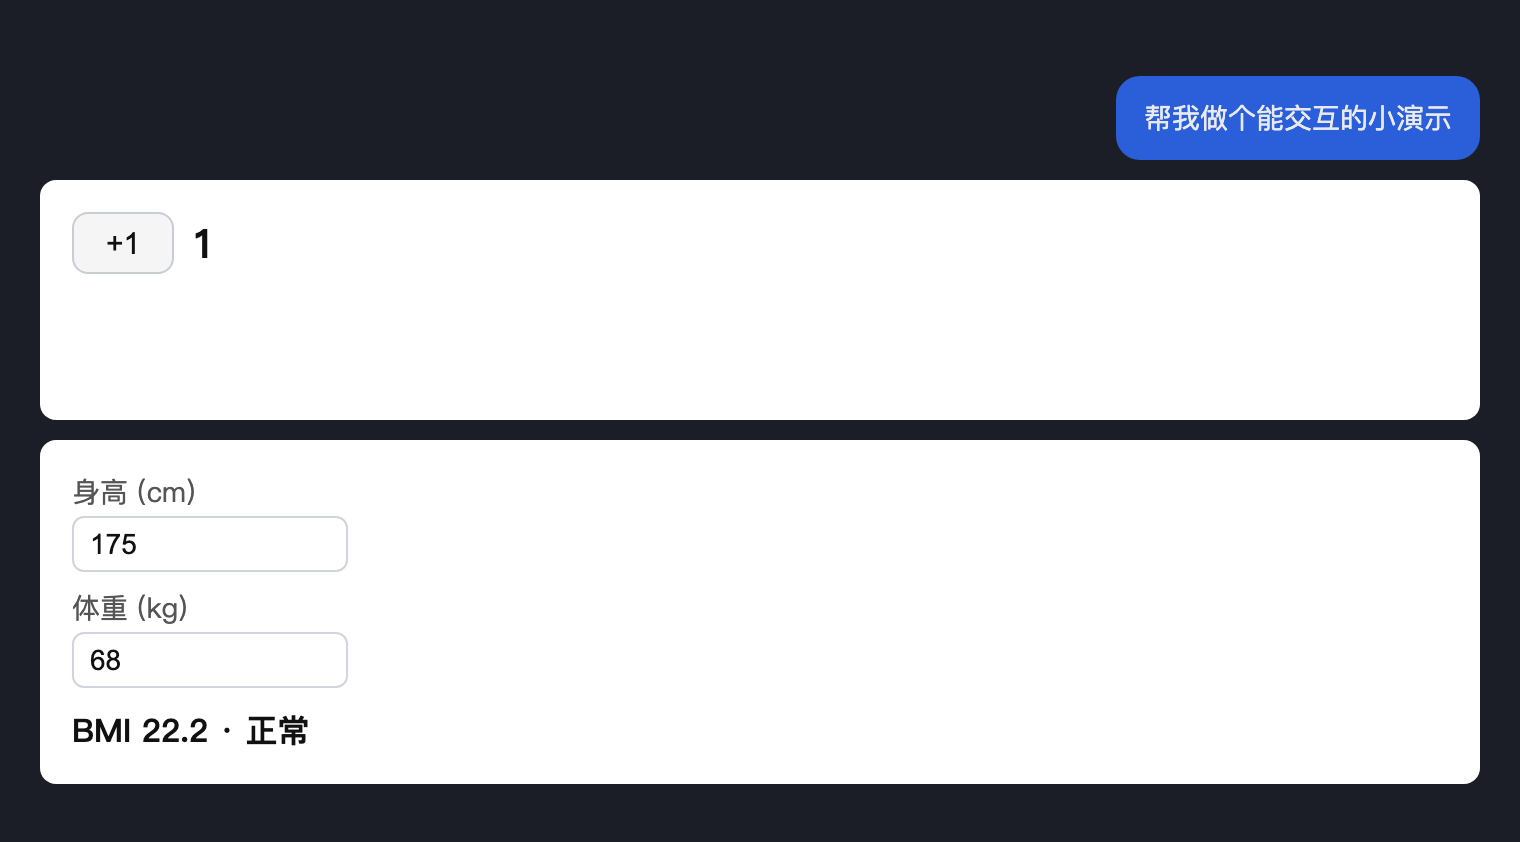
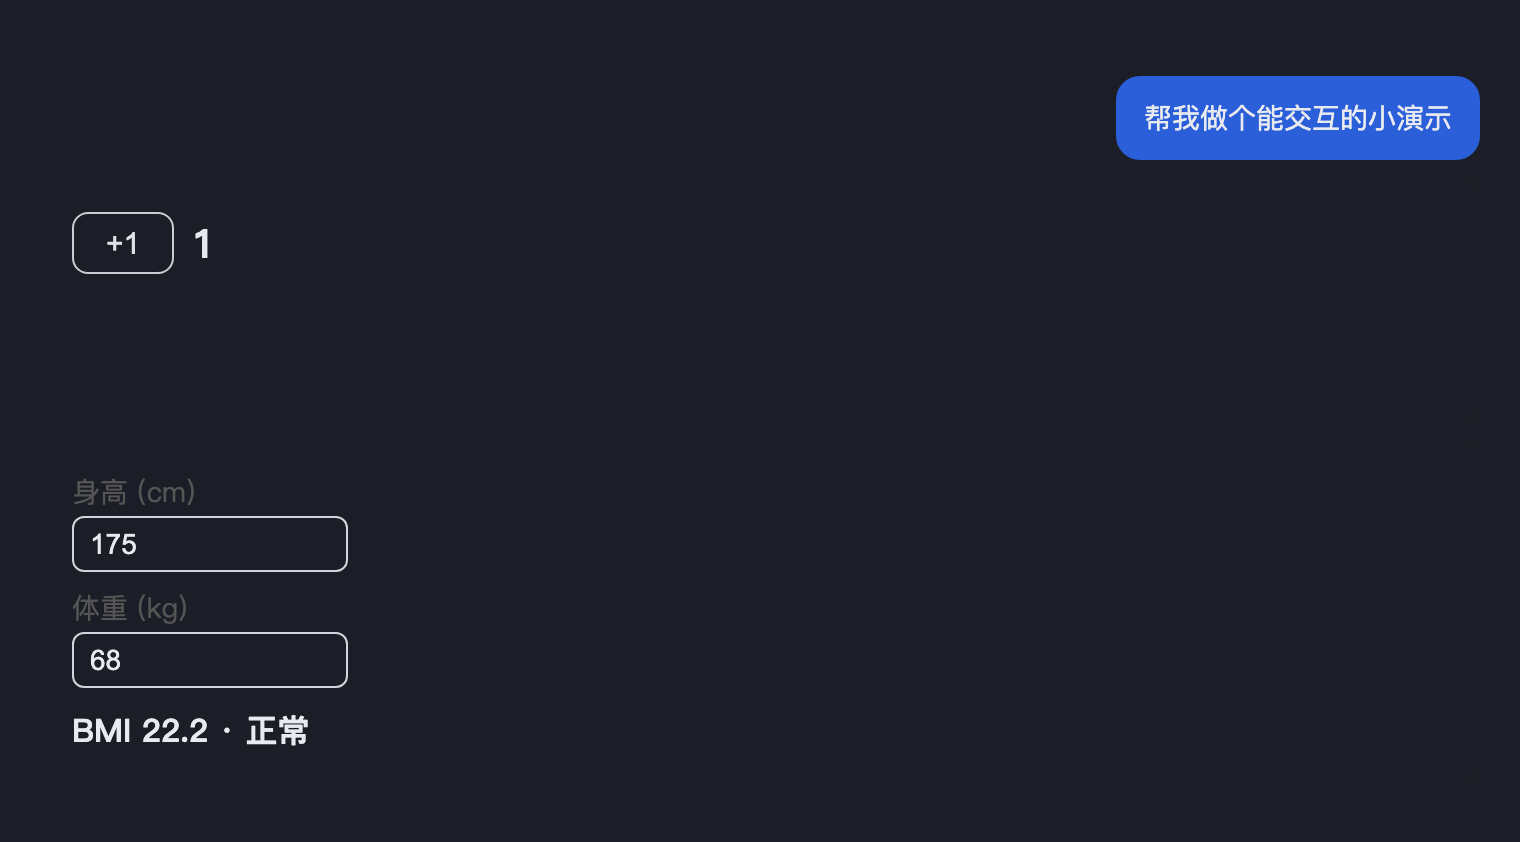
E749D2CC7F0E-1 工件跟随宿主主题：采样宿主实际背景/前景色注入 --gui-*，未声明约定变量也能匹配深浅色；工件文档注入默认主题底样式

diff --git a/src/client/index.tsx b/src/client/index.tsx
@@ -124,6 +124,22 @@ export function collectThemeVars(): Record<string, string> {
       if (value) { out[std] = value; break }
     }
   }
+  // Theme sampling fallback: the host may not define any of the mapped
+  // variable names (different theme system, or a plain build). Sample the
+  // host's actual computed background/foreground so artifacts still follow
+  // the host's light/dark mode instead of every artifact defaulting to white.
+  const bodyStyle = getComputedStyle(document.body)
+  if (!out['--gui-bg'] || !out['--gui-fg']) {
+    const probe = document.createElement('div')
+    document.body.appendChild(probe)
+    const probeStyle = getComputedStyle(probe)
+    const bg = bodyStyle.backgroundColor
+    const fg = probeStyle.color || bodyStyle.color
+    probe.remove()
+    const opaque = (c: string) => c && !/rgba?\(\s*\d+\s*,\s*\d+\s*,\s*\d+\s*,\s*0\s*\)/.test(c)
+    if (!out['--gui-bg'] && opaque(bg)) out['--gui-bg'] = bg
+    if (!out['--gui-fg'] && opaque(fg)) out['--gui-fg'] = fg
+  }
   return out
 }
 
@@ -155,7 +171,11 @@ const BOOTSTRAP = `<script>(function(){
 
 /** Build the sandboxed document for one artifact (themeCss inlined for first paint). */
 export function artifactDocument(source: string, themeCss: string = ''): string {
-  const body: string = /<html[\s>]/i.test(source) ? source : `<!doctype html><html><head><meta charset="utf-8"><meta name="viewport" content="width=device-width">${themeCss ? `<style>${themeCss}</style>` : ''}</head><body>${source}</body></html>`
+  // Default base: follow the host theme via the injected --gui-* variables,
+  // and let form controls pick up the right scheme. Artifacts that set their
+  // own colors simply override these.
+  const base = '<style>:root{color-scheme:light dark}body{background:var(--gui-bg,transparent);color:var(--gui-fg,#111)}</style>'
+  const body: string = /<html[\s>]/i.test(source) ? source : `<!doctype html><html><head><meta charset="utf-8"><meta name="viewport" content="width=device-width">${base}${themeCss ? `<style>${themeCss}</style>` : ''}</head><body>${source}</body></html>`
   return body.includes('</body>') ? body.replace('</body>', `${BOOTSTRAP}</body>`) : body + BOOTSTRAP
 }
 

diff --git a/lib/client.js b/lib/client.js
@@ -90,6 +90,18 @@ function collectThemeVars() {
       }
     }
   }
+  const bodyStyle = getComputedStyle(document.body);
+  if (!out["--gui-bg"] || !out["--gui-fg"]) {
+    const probe = document.createElement("div");
+    document.body.appendChild(probe);
+    const probeStyle = getComputedStyle(probe);
+    const bg = bodyStyle.backgroundColor;
+    const fg = probeStyle.color || bodyStyle.color;
+    probe.remove();
+    const opaque = (c) => c && !/rgba?\(\s*\d+\s*,\s*\d+\s*,\s*\d+\s*,\s*0\s*\)/.test(c);
+    if (!out["--gui-bg"] && opaque(bg)) out["--gui-bg"] = bg;
+    if (!out["--gui-fg"] && opaque(fg)) out["--gui-fg"] = fg;
+  }
   return out;
 }
 function themeVarsToCss(vars) {
@@ -115,7 +127,8 @@ var BOOTSTRAP = `<script>(function(){
   });
 })()<\/script>`;
 function artifactDocument(source, themeCss = "") {
-  const body = /<html[\s>]/i.test(source) ? source : `<!doctype html><html><head><meta charset="utf-8"><meta name="viewport" content="width=device-width">${themeCss ? `<style>${themeCss}</style>` : ""}</head><body>${source}</body></html>`;
+  const base = "<style>:root{color-scheme:light dark}body{background:var(--gui-bg,transparent);color:var(--gui-fg,#111)}</style>";
+  const body = /<html[\s>]/i.test(source) ? source : `<!doctype html><html><head><meta charset="utf-8"><meta name="viewport" content="width=device-width">${base}${themeCss ? `<style>${themeCss}</style>` : ""}</head><body>${source}</body></html>`;
   return body.includes("</body>") ? body.replace("</body>", `${BOOTSTRAP}</body>`) : body + BOOTSTRAP;
 }
 var generativeUiTurnDefinition = {
